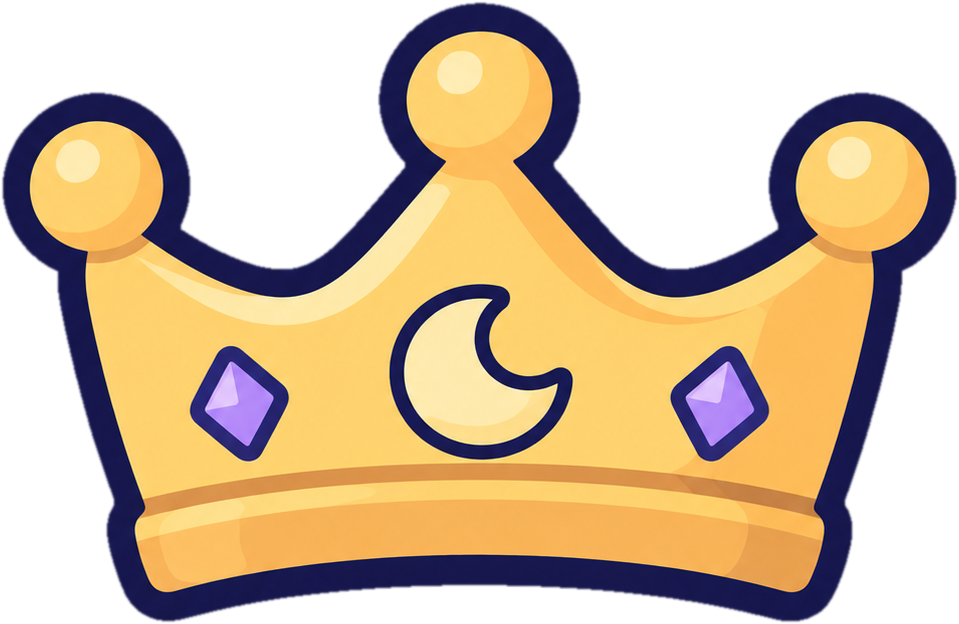
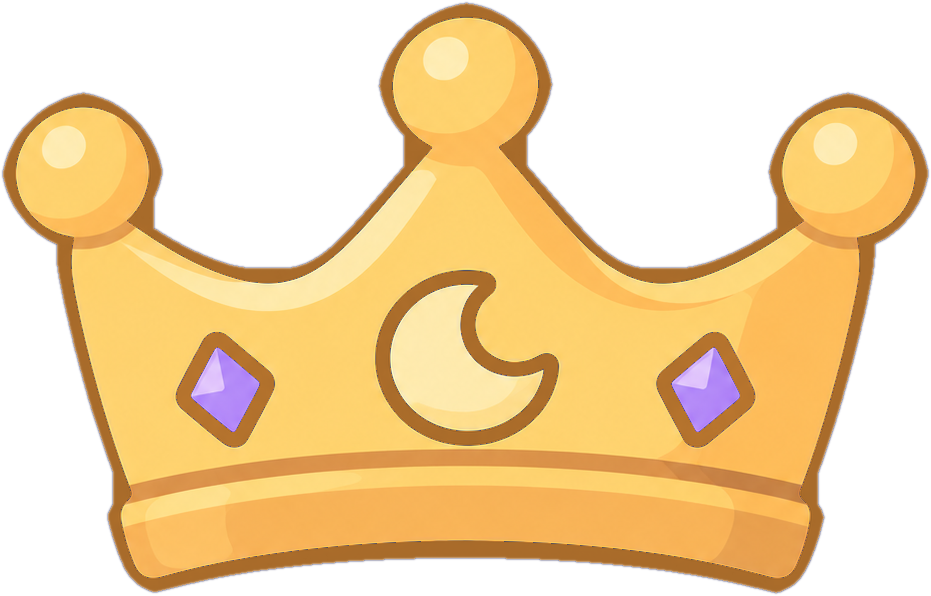
fix(closet): 禮帽、皇冠的粗黑外框改細、改同色系，底下加淡影子（不再像貼紙）

diff --git a/app/lib/pet2d/pet_widget.dart b/app/lib/pet2d/pet_widget.dart
@@ -3,6 +3,7 @@
 // 心情一律先過 pet.resolve()（缺圖畫 bored，不畫 happy）。預覽用的調位置工具照留、App 不開。
 import 'dart:async';
 import 'dart:math' as math;
+import 'dart:ui' as ui;
 
 import 'package:flutter/material.dart';
 
@@ -269,11 +270,44 @@ class _LayeredPetState extends State<LayeredPet>
             base.rotationDeg + tweak.rotationDeg + animatedRotation,
           ),
           alignment: Alignment.bottomCenter,
-          child: Image.asset(
-            accessory.assetPath,
-            fit: BoxFit.contain,
-            filterQuality: FilterQuality.high,
-          ),
+          child: accessory.shadowAt == null
+              ? Image.asset(
+                  accessory.assetPath,
+                  fit: BoxFit.contain,
+                  filterQuality: FilterQuality.high,
+                )
+              : Stack(
+                  clipBehavior: Clip.none,
+                  children: [
+                    // 落在頭上的淡影子：在帽子底邊、比帽子窄一點，看起來是戴著不是貼著
+                    Positioned(
+                      key: const Key('pet-accessory-shadow'),
+                      left: size * 0.16,
+                      width: size * 0.68,
+                      top: size * accessory.shadowAt! - size * 0.07,
+                      height: size * 0.13,
+                      child: ImageFiltered(
+                        imageFilter: ui.ImageFilter.blur(
+                          sigmaX: size * 0.035,
+                          sigmaY: size * 0.035,
+                        ),
+                        child: const DecoratedBox(
+                          decoration: BoxDecoration(
+                            color: Color(0x4D5A2A12),
+                            borderRadius: BorderRadius.all(Radius.elliptical(100, 30)),
+                          ),
+                        ),
+                      ),
+                    ),
+                    Positioned.fill(
+                      child: Image.asset(
+                        accessory.assetPath,
+                        fit: BoxFit.contain,
+                        filterQuality: FilterQuality.high,
+                      ),
+                    ),
+                  ],
+                ),
         ),
       ),
     );

diff --git a/app/lib/pet2d/pet_models.dart b/app/lib/pet2d/pet_models.dart
@@ -171,6 +171,7 @@ class AccessoryDefinition {
     required this.assetPath,
     this.fit = 1,
     this.drop = 0,
+    this.shadowAt,
   });
 
   final String id;
@@ -185,6 +186,10 @@ class AccessoryDefinition {
 
   /// 往下移多少（錨點框邊長的比例）；讓硬的帽子坐進兩耳之間，不是浮在頭頂上。
   final double drop;
+
+  /// 帽子底下那道淡影子落在框高的哪裡（＝圖裡帽子的底邊，0–1）；null＝不畫。
+  /// 硬帽子沒有影子看起來是「浮」在頭上（2026-11-19 使用者：很突兀）。
+  final double? shadowAt;
 }
 
 class AccessoryTweak {

diff --git a/app/lib/pet2d/pet_catalog.dart b/app/lib/pet2d/pet_catalog.dart
@@ -608,6 +608,7 @@ const accessories = <AccessoryDefinition>[
     assetPath: 'assets/accessories/head/star_top_hat.png',
     fit: 0.62,
     drop: -0.04,
+    shadowAt: 0.887,
   ),
   AccessoryDefinition(
     id: 'moon_crown',
@@ -616,5 +617,6 @@ const accessories = <AccessoryDefinition>[
     assetPath: 'assets/accessories/head/moon_crown.png',
     fit: 0.58,
     drop: -0.04,
+    shadowAt: 0.82,
   ),
 ];
